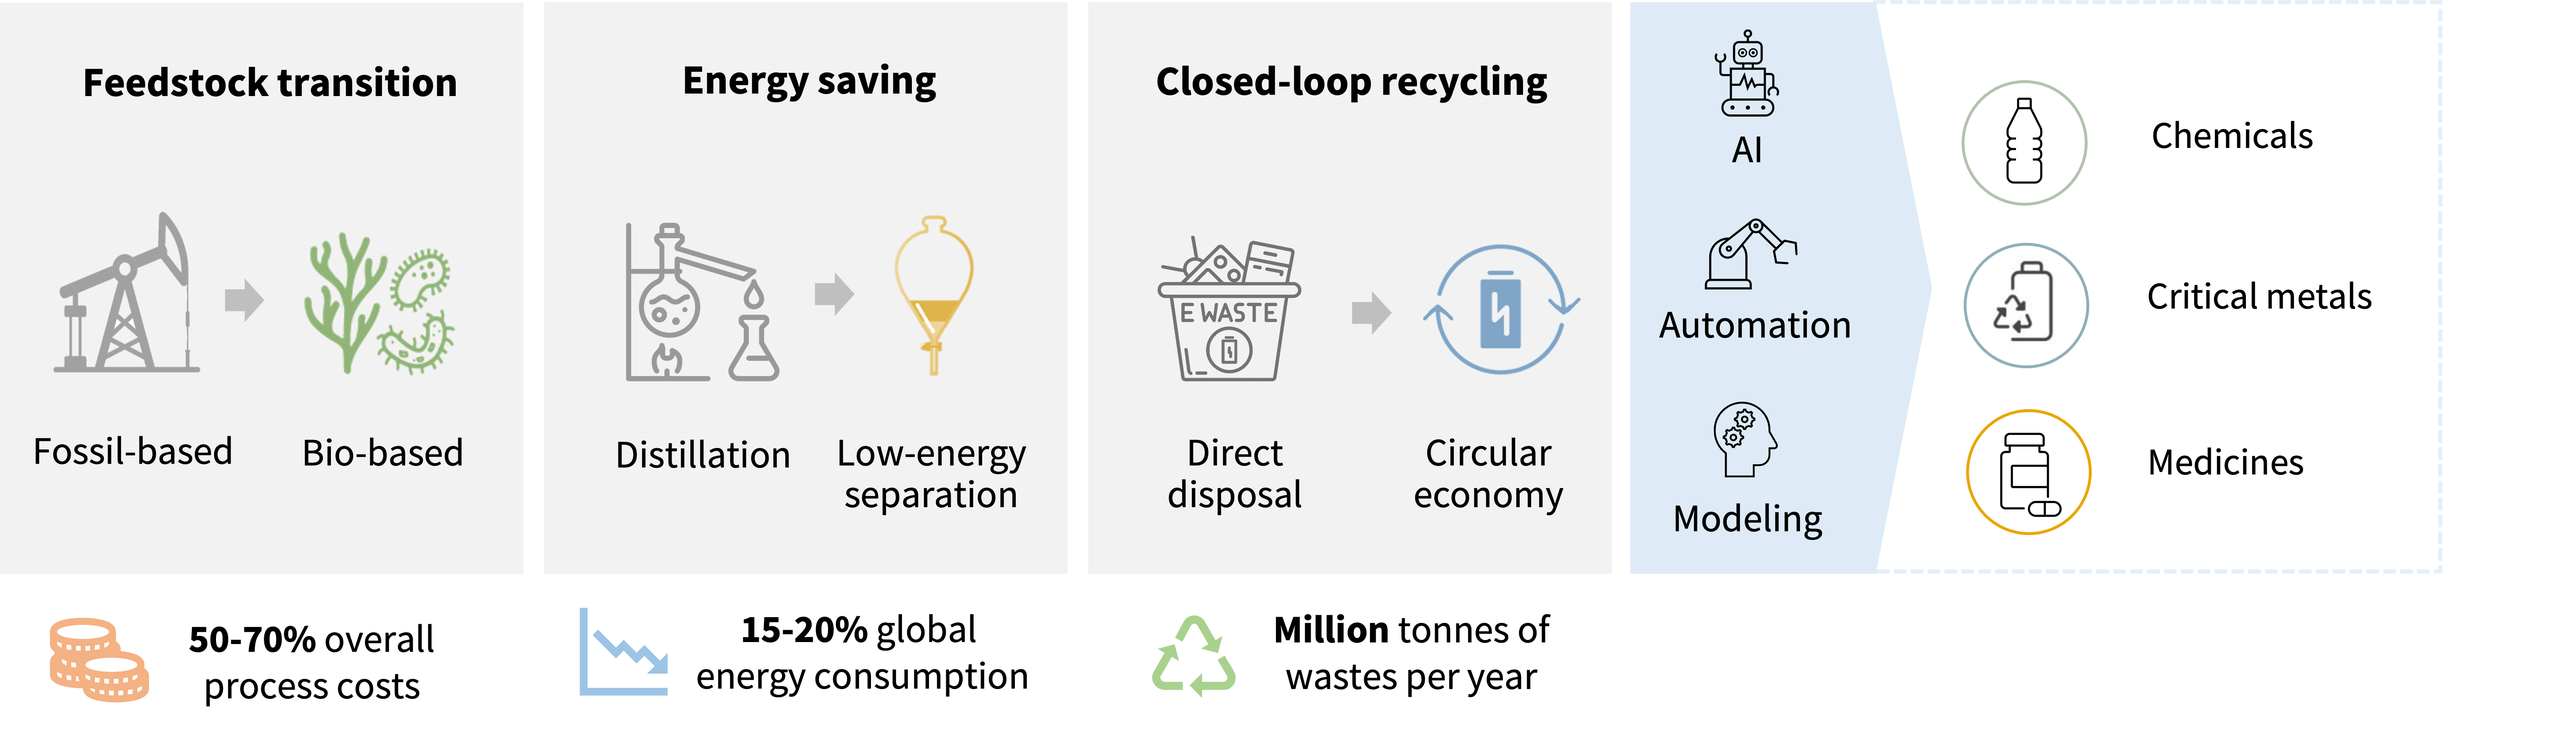
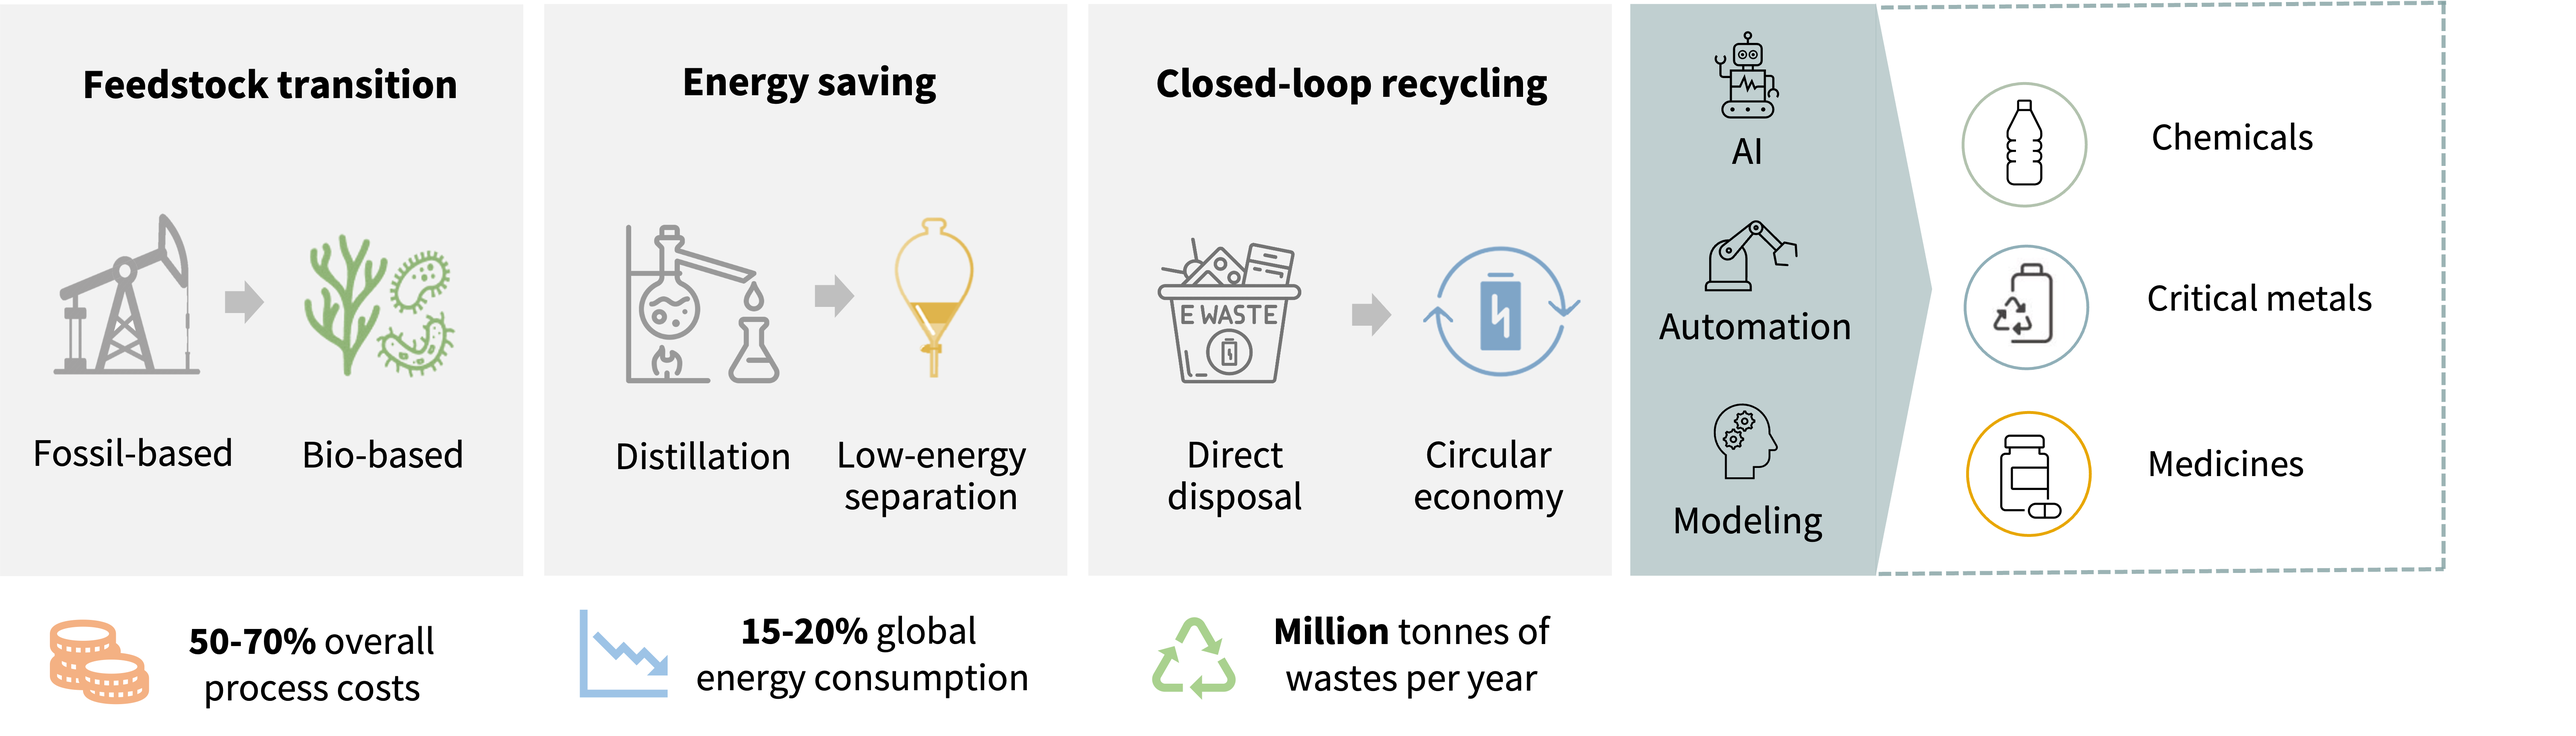
update research.md

diff --git a/_pages/research.md b/_pages/research.md
@@ -17,9 +17,9 @@ We primarily focus on liquid-phase separation (such as solvent extraction).
 This ranges from understanding fundamental transport phenomena, designing novel extraction systems, to developing process models for in silico prediction of separation performances at large scale.
 
 <div style="flex: 0 0 300px; min-width: 250px;">
-  <img src="{{ site.url }}{{ site.baseurl }}/images/2_researchtopics/overall2.png" 
+  <img src="{{ site.url }}{{ site.baseurl }}/images/2_researchtopics/overall.png" 
         class="img-fluid d-block mx-auto" 
-        alt="overall2" 
+        alt="overall" 
         style="width: 105%;">
 </div>
 
